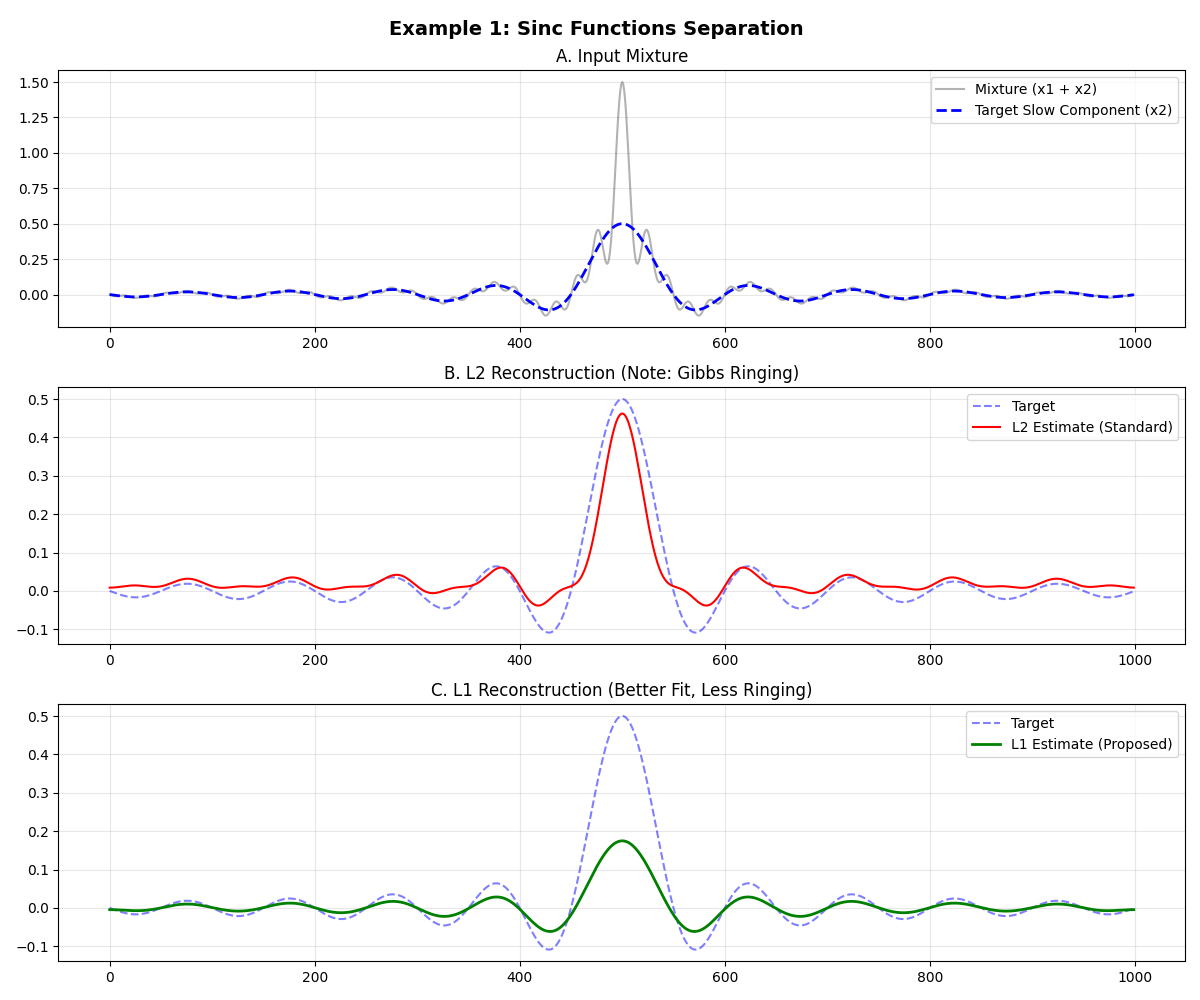
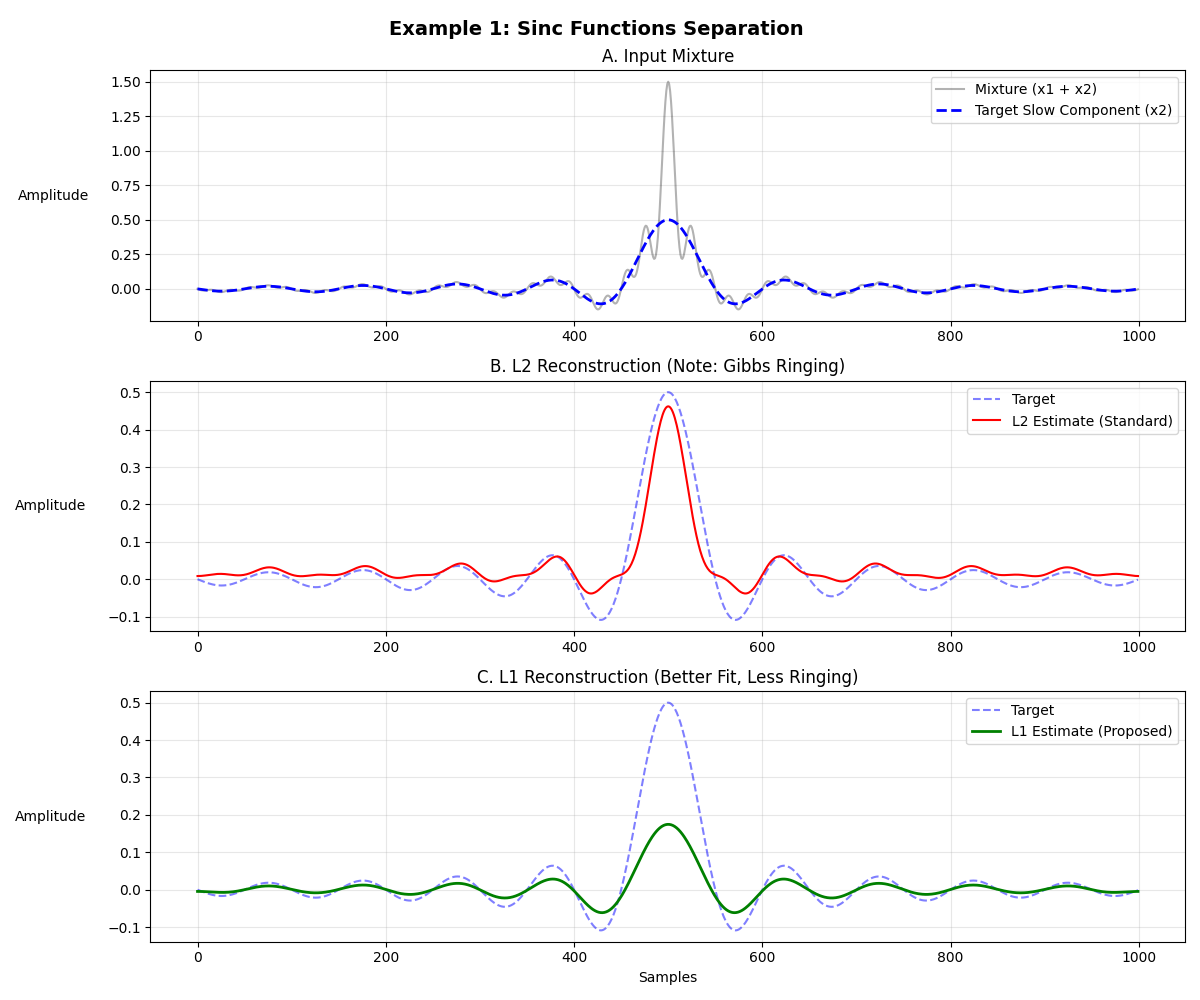
Inserito titolo asse y su grafici fase 8

diff --git a/8_synthetic_proof.py b/8_synthetic_proof.py
@@ -1,6 +1,5 @@
 # =============================================================================
 # PHASE 8: SYNTHETIC PROOF (REPLICATING PAPER FIGS 1-4)
-
 # =============================================================================
 
 import numpy as np
@@ -59,6 +58,8 @@ def run_sinc_experiment():
     plt.plot(y, 'k', alpha=0.3, label='Mixture (x1 + x2)')
     plt.plot(x2, 'b', linestyle='--', linewidth=2, label='Target Slow Component (x2)')
     plt.title("A. Input Mixture")
+    # UPDATED LABEL: Horizontal, aligned right, proper padding
+    plt.ylabel("Amplitude", rotation=0, ha='right', va='center', labelpad=15)
     plt.legend()
     plt.grid(True, alpha=0.3)
     
@@ -66,6 +67,8 @@ def run_sinc_experiment():
     plt.plot(x2, 'b', linestyle='--', alpha=0.5, label='Target')
     plt.plot(rec_l2, 'r', label='L2 Estimate (Standard)')
     plt.title("B. L2 Reconstruction (Note: Gibbs Ringing)")
+    # UPDATED LABEL
+    plt.ylabel("Amplitude", rotation=0, ha='right', va='center', labelpad=15)
     plt.legend()
     plt.grid(True, alpha=0.3)
     
@@ -73,6 +76,9 @@ def run_sinc_experiment():
     plt.plot(x2, 'b', linestyle='--', alpha=0.5, label='Target')
     plt.plot(rec_l1, 'g', linewidth=2, label='L1 Estimate (Proposed)')
     plt.title("C. L1 Reconstruction (Better Fit, Less Ringing)")
+    # UPDATED LABEL
+    plt.ylabel("Amplitude", rotation=0, ha='right', va='center', labelpad=15)
+    plt.xlabel("Samples")
     plt.legend()
     plt.grid(True, alpha=0.3)
     
@@ -112,6 +118,8 @@ def run_gaussian_experiment():
     plt.plot(y, 'k', alpha=0.3, label='Mixture (x1 + x2)')
     plt.plot(x2, 'b', linestyle='--', linewidth=2, label='Target Slow Component (x2)')
     plt.title("A. Input Mixture (Gaussians)")
+    # UPDATED LABEL
+    plt.ylabel("Amplitude", rotation=0, ha='right', va='center', labelpad=15)
     plt.legend()
     plt.grid(True, alpha=0.3)
     
@@ -120,6 +128,8 @@ def run_gaussian_experiment():
     plt.plot(rec_l2, 'r', label='L2 Estimate')
     plt.text(mu1, 0.5, "Gibbs Artifacts", color='red', fontweight='bold', ha='center')
     plt.title("B. L2 Reconstruction (Fails on Impulsive Noise)")
+    # UPDATED LABEL
+    plt.ylabel("Amplitude", rotation=0, ha='right', va='center', labelpad=15)
     plt.legend()
     plt.grid(True, alpha=0.3)
     
@@ -127,6 +137,8 @@ def run_gaussian_experiment():
     plt.plot(x2, 'b', linestyle='--', alpha=0.5, label='Target')
     plt.plot(rec_l1, 'g', linewidth=2, label='L1 Estimate')
     plt.title("C. L1 Reconstruction (Robust to Impulsive Noise)")
+    # UPDATED LABEL
+    plt.ylabel("Amplitude", rotation=0, ha='right', va='center', labelpad=15)
     plt.legend()
     plt.grid(True, alpha=0.3)
     
